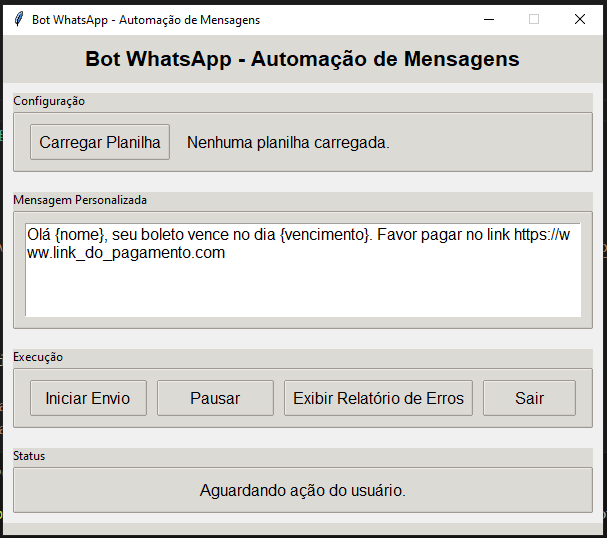
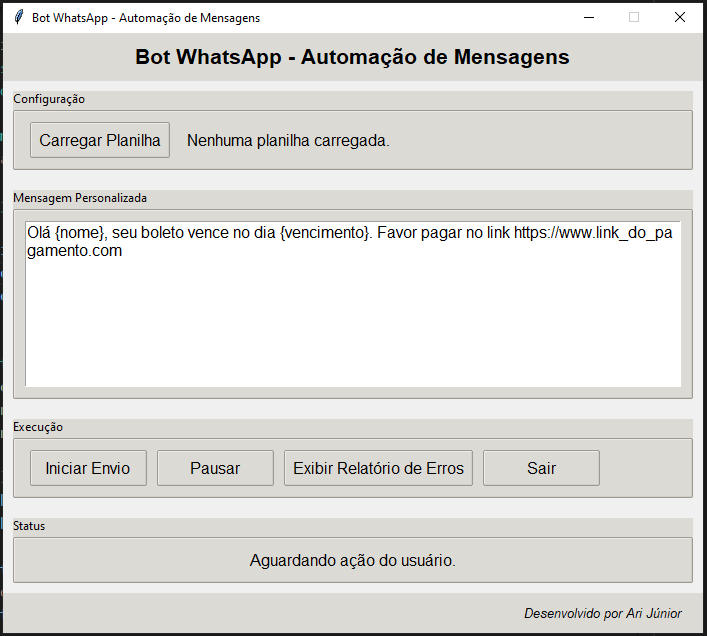
update tamanho da tela

diff --git a/app.py b/app.py
@@ -127,7 +127,7 @@ def exibir_relatorio():
 # Criar janela principal
 janela = tk.Tk()
 janela.title("Bot WhatsApp - Automação de Mensagens")
-janela.geometry("800x600")
+janela.geometry("700x600")
 janela.resizable(False, False)
 
 # Estilo
@@ -186,7 +186,7 @@ label_status.pack()
 
 # Rodapé
 frame_rodape = ttk.Frame(janela, padding=10)
-frame_rodape.pack(fill="x", side="bottom", anchor="s")
+frame_rodape.pack(fill="x", side="bottom")
 
 label_rodape = ttk.Label(frame_rodape, text="Desenvolvido por Ari Júnior", font=("Arial", 10, "italic"))
 label_rodape.pack(side="right", padx=10)
